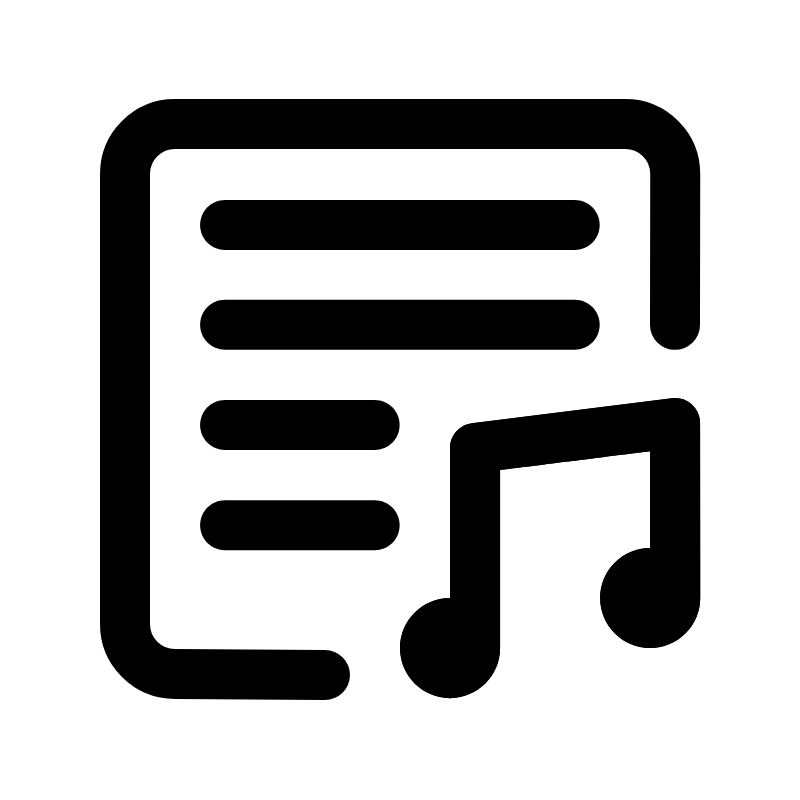
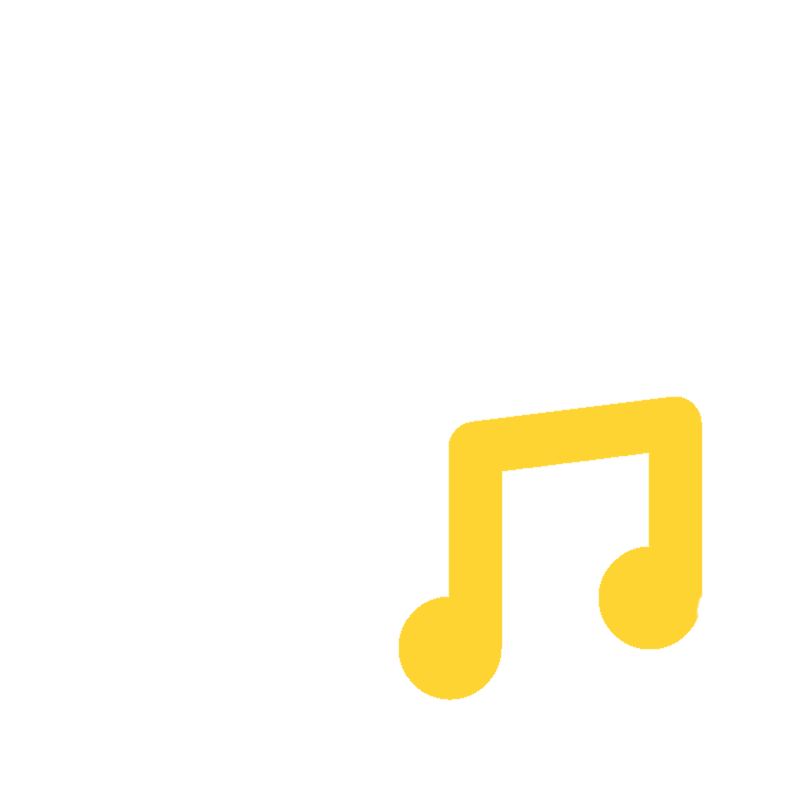
Bug fix, omptimatazon Instead of getting many lyrics at once when searching: get lyrcis on focus of item why? it was weird, sometimes songs with lyrics didnt appear.
also icon. and banners (choose which one)

diff --git a/script.js b/script.js
@@ -5,7 +5,7 @@ const app = {
 		title: document.querySelector('#title'),
 		insteadSearch: document.querySelector('#artistAndTitle .separator'),
 		fetchButton: document.querySelector('#fetchLyrics'),
-		result: document.querySelector('#lyricText')
+		result: document.querySelector('#lyricsText')
 	},
 	search: {
 		root: document.querySelector('#search'),
@@ -207,7 +207,7 @@ const app = {
 
 // == APP ==
 // variables
-let showOnlySongsWithAvaibleLyrics = true;
+let showOnlySongsWithAvaibleLyrics = false;
 
 
 // KEYDOWN
@@ -227,17 +227,22 @@ document.addEventListener('keydown', e => {
 		if (e.key.includes('Arrow')) return
 		if (e.key == "Enter") return clearTimeout(searchTypeTimeout), search(app.search.searchInput.value, true)
 		clearTimeout(searchTypeTimeout)
-		searchTypeTimeout = setTimeout(() => { search(app.search.searchInput.value) }, 1500)
+		searchTypeTimeout = setTimeout(() => { search(app.search.searchInput.value, false) }, 1500)
 	}
 
 	// Play PREVIEW
 	if (e.key == "SoftRight" || e.key == "3") playPreview();
+
+	// Search
+	if (e.key == "SoftLeft" || e.key == "1") go('search')
 
 	// GET LYRICS on search screen
 	if (focusedElement.dataset.previewPlaying) {
 		// if (e.key == "Enter") lyrics(focusedElement.dataset.artist, focusedElement.dataset.title)
 	}
 })
+
+
 
 // open page
 function go(target) {
@@ -277,7 +282,7 @@ function nav(move) {
 	if (move == -1 && currentElemIdx == -1) currentElemIdx = items.length
 	const next = currentElemIdx + move;
 	let targetElement = items[next];
-	if(targetElement === document.querySelector('#goToSearch') && move === 1 && app.byArtistAndTitle.artist.value && app.byArtistAndTitle.title.value) targetElement = app.byArtistAndTitle.fetchButton
+	if (targetElement === document.querySelector('#goToSearch') && move === 1 && app.byArtistAndTitle.artist.value && app.byArtistAndTitle.title.value) targetElement = app.byArtistAndTitle.fetchButton
 	if (targetElement) targetElement.focus();
 	else document.body.focus();
 }
@@ -314,11 +319,18 @@ function fetchLyricsByArtistAndTitle(artist, title) {
 }
 
 // Get lyrics function
-function lyrics(artist, title) {
+function lyrics(artist, title, titleIsLyrics_Artist, titleIsLyrics_Title) {
 	if (artist === "isStoredLyrics" && typeof title !== undefined) {
 		console.log(searchResults[title])
 		displayLyrics(searchResults[title].lyrics, searchResults[title].artist.name, searchResults[title].title)
 		return go('byArtistAndTitle')
+	}
+	if (artist === "titleIsLyrics" && typeof title !== undefined) {
+		console.log(title)
+		displayLyrics(title, titleIsLyrics_Artist, titleIsLyrics_Title)
+		go('byArtistAndTitle')
+		return
+
 	}
 	fetchLyricsByArtistAndTitle(artist, title)
 		.then((lyrics) => {
@@ -364,7 +376,7 @@ function fetchSearchQuery(query) {
 function search(query, focusFirstResult) {
 	if (query === "{clearsearch}") return app.search.result.innerHTML = ""
 	if (query == "" || query == "") return
-	app.search.result.innerHTML = "Searching..."
+	app.search.result.innerHTML = "<h2 style='color:white; text-align: center;'>Searching...</h2>" // TODO
 	fetchSearchQuery(query)
 		.then((results) => {
 			console.log(results)
@@ -384,12 +396,13 @@ function displaySearchResults(results, focusFirstResult) {
         		<p class="list-item__subtext">Try something else</p>
     		</div>
 		</div>`
-		if(focusFirstResult)app.search.result.querySelector('.list-item-icon').focus();
-		return 
+		if (focusFirstResult) app.search.result.querySelector('.list-item-icon').focus();
+		return
 	}
 	for (let i = 0; i < results.length; i++) {
+		// GOHERE
 		app.search.result.innerHTML += `
-		<div class="list-item-icon focusable" tabindex="${i}" onkeydown="if(event.key === 'Enter') { lyrics('isStoredLyrics', ${i}); };" onfocus="softkeys('Search', 'LYRICS','Preview');" data-artist="${results[i].artist.name}" data-title="${results[i].title}" data-cover="${results[i].album.cover_small}" data-preview="${results[i].preview}"  data-preview-Playing="false" data-current-preview="false">
+		<div class="list-item-icon focusable" tabindex="${i}" onfocus="let focusTimeout; softkeys('Search', '', 'Preview'); focusTimeout=setTimeout(() => { let activeElement=document.activeElement; softkeys('Search', 'LOADING...', 'Preview'); if (this.dataset.lyrics) { softkeys('Search', 'LYRICS', 'Preview'); } else { fetchLyricsByArtistAndTitle(this.dataset.artist, this.dataset.title).then((result) => { if (result.includes('Something went wrong')) return softkeys('Search', '', 'Preview'); if (activeElement == document.activeElement) { softkeys('Search', 'LYRICS', 'Preview'); } this.dataset.lyrics = result.replace(/^Paroles de la chanson .+$/m, ''); this.onkeydown = (e) => { if (e.key == 'Enter' && this.dataset.lyrics) { lyrics('titleIsLyrics', this.dataset.lyrics, this.dataset.artist, this.dataset.title); } }; }); } }, 650); this.onblur = () => { clearTimeout(focusTimeout); }" data-artist="${results[i].artist.name}" data-title="${results[i].title}" data-cover="${results[i].album.cover_small}" data-preview="${results[i].preview}"  data-preview-Playing="false" data-current-preview="false">
     		<img src="${results[i].album.cover_small}" alt="" class="list-item-icon__icon" />
     		<div class="list-item-icon__text-container">
         		<p class="list-item__text">${results[i].title}</p>
@@ -397,69 +410,104 @@ function displaySearchResults(results, focusFirstResult) {
     		</div>
 		</div>
 		`
+
+		let item = document.querySelectorAll('.list-item-icon')[i]
+		item.onfucus = () => {
+			let focusTimeout;
+			softkeys('Search', '', 'Preview');
+			focusTimeout = setTimeout(() => {
+				let activeElement = document.activeElement
+				softkeys('Search', 'LOADING...', 'Preview');
+				if (item.dataset.lyrics) { softkeys('Search', 'LYRICS', 'Preview') } else {
+					fetchLyricsByArtistAndTitle(item.dataset.artist, item.dataset.title).then((result) => {
+						if (result.includes('Something went wrong')) return softkeys('Search', '', 'Preview')
+						if (activeElement == document.activeElement) {
+							softkeys('Search', 'LYRICS', 'Preview');
+						}
+						item.dataset.lyrics = result.replace(/^Paroles de la chanson .+$/m, '');
+
+						item.onkeydown = (e) => {
+							if (e.key == "Enter" && item.dataset.lyrics) {
+								lyrics('titleIsLyrics', item.dataset.lyrics, item.dataset.artist, item.dataset.title)
+							}
+						}
+					})
+				}
+			}, 650)
+
+			item.onblur = () => {
+				clearTimeout(focusTimeout)
+			}
+		}
 	}
-	if(focusFirstResult)app.search.result.querySelector('.list-item-icon').focus();
+	if (focusFirstResult) app.search.result.querySelector('.list-item-icon').focus();
 
 }
 let filteredSongList = [];
 
 function filterSearch(songList, toggleByHTML) {
-    return new Promise((resolve, reject) => {
-        if (toggleByHTML && filteredSongList.length !== 0) {
-            console.error('not filtering');
-            if (!showOnlySongsWithAvaibleLyrics) {
-                console.error('early return');
-                resolve(searchResultCopy);
-                return;
-            }
-            console.error('early return');
-            resolve(filteredSongList);
-            return;
-        }
+	if(songList.length === 0) {
+		return "ERROR"
+	}
+	return new Promise((resolve, reject) => {
+		if (toggleByHTML && filteredSongList.length !== 0) {
+			console.error('not filtering');
+			if (!showOnlySongsWithAvaibleLyrics) {
+				console.error('early return');
+				resolve(searchResultCopy);
+				return;
+			}
+			console.error('early return');
+			resolve(filteredSongList);
+			return;
+		}
 
-        filteredSongList = [];
-        console.log('filter: ');
-        console.log(showOnlySongsWithAvaibleLyrics);
+		filteredSongList = [];
+		console.log('filter: ');
+		console.log(showOnlySongsWithAvaibleLyrics);
+		if (!showOnlySongsWithAvaibleLyrics) return resolve(searchResultCopy)
+		let fetchPromises = [];
+		for (let i = 0; i < songList.length; i++) {
+			fetchPromises.push(
+				fetchLyricsByArtistAndTitle(songList[i].artist.name, songList[i].title)
+					.then((result) => {
+						if (result.includes('Something went wrong.')) {
+							console.log('NO LYRICS FOUND. Song needs to be ejected');
+						} else {
+							console.log('Lyrics found. Song can stay');
+							searchResults[i].lyrics = result.replace(/^Paroles de la chanson .+$/m, '');
+							filteredSongList.push(songList[i]);
+						}
+					})
+					.catch((error) => {
+						console.error('WTF HAPPENED; Error fetching lyrics:', error);
+					})
+			);
+		}
 
-        let fetchPromises = [];
-
-        for (let i = 0; i < songList.length; i++) {
-            fetchPromises.push(
-                fetchLyricsByArtistAndTitle(songList[i].artist.name, songList[i].title)
-                    .then((result) => {
-                        if (result.includes('Something went wrong.')) {
-                            console.log('NO LYRICS FOUND. Song needs to be ejected');
-                        } else {
-                            console.log('Lyrics found. Song can stay');
-                            searchResults[i].lyrics = result.replace(/^Paroles de la chanson .+$/m, '');
-                            filteredSongList.push(songList[i]);
-                        }
-                    })
-                    .catch((error) => {
-                        console.error('WTF HAPPENED; Error fetching lyrics:', error);
-                    })
-            );
-        }
-
-        Promise.all(fetchPromises)
-            .then(() => {
-                console.log(filteredSongList.length);
-                if (filteredSongList.length === 0) {
-                    filteredSongList = "ERROR";
-                }
-                console.log(filteredSongList);
-                resolve(filteredSongList);
-            })
-            .catch((error) => {
-                reject(error);
-            });
-    });
+		Promise.all(fetchPromises)
+			.then(() => {
+				console.log(filteredSongList.length);
+				if (!filteredSongList) {
+					filteredSongList = "ERROR";
+				}
+				console.log(filteredSongList);
+				resolve(filteredSongList);
+			})
+			.catch((error) => {
+				reject(error);
+			});
+	});
 }
 
 
 // PREVIEW
 function playPreview() {
 	const focusedElement = document.activeElement;
+	if (focusedElement.id === "lyricsText") {
+		if (!preview.src === searchResultCopy[focusedElement.dataset.index].preview) preview.src = searchResultCopy[focusedElement.dataset.index].preview
+		preview.paused ? preview.play() : preview.pause()
+	}
 	if (focusedElement.dataset.previewPlaying) { // check if song item
 		// console.log('exist')
 		if (preview.src) { // ALREADY SOURCE
@@ -490,3 +538,7 @@ function playPreview() {
 		}
 	}
 }
+// GOHERE
+
+
+// FOCUS

diff --git a/index.html b/index.html
@@ -32,7 +32,7 @@
 
             </div>
             <div class="list-item focusable" tabindex="0" onfocus="softkeys('Search','SAVE','Preview')">
-                <p class="list-item__text" id="lyricText" style="text-wrap: wrap; font-size: 1.5rem;"></p>
+                <p class="list-item__text" id="lyricsText" data-index></p>
             </div>
         </div>
 
@@ -40,7 +40,7 @@
             <div class="input-container">
                 <input type="text" tabindex="0" class="input-container__input focusable" id="searchInput" placeholder="Search"  onfocus="softkeys('', 'SEARCH');"/>
             </div>
-            <div class="separator focusable" id="filterToggle" tabindex="0" onkeydown="if(event.key === 'Enter') { showOnlySongsWithAvaibleLyrics = !showOnlySongsWithAvaibleLyrics; filterSearch(searchResultCopy, true); }" style="font-size: 1.05rem;">Only showing results with avaiable lyrics</div>
+            <div class="separator focusable" id="filterToggle" tabindex="0" onkeydown="if(event.key === 'Enter') { showOnlySongsWithAvaibleLyrics = !showOnlySongsWithAvaibleLyrics; filterSearch(searchResultCopy, true); }" style="font-size: 1.1rem;">Showing all results</div>
 
             <div id="searchResult"></div>
         </div>

diff --git a/style.css b/style.css
@@ -60,13 +60,13 @@
     --item-background: rgb(15, 17, 38);
     --item-text-color: #ffffff;
     --item-subtext-color: #a3a3a3;
-    --item-focused-background: rgba(229, 184, 11, 0.85);
+    --item-focused-background: rgb(243, 197, 15);
     --item-focused-text-color: #000000;
     --item-focused-subtext-color: #121212;
     --arrow-color: #000000;
     --button-background: rgb(28, 35, 113);
     --button-color: white;
-    --button-background-focused: rgba(229, 184, 11, 0.77);
+    --button-background-focused: rgb(244, 197, 12);
     --button-color-focused: #ffffff;
     --checkbox-color: #873eff;
     --checkbox-color-focused: #ffffff;
@@ -134,7 +134,6 @@
 }
 
 *:focus .list-item__text{
-
     color: var(--item-focused-text-color);
 }
 

diff --git a/app.css b/app.css
@@ -1,0 +1,5 @@
+#lyricText {
+    overflow: visible;
+    white-space: wrap;
+    text-overflow: none;
+}
